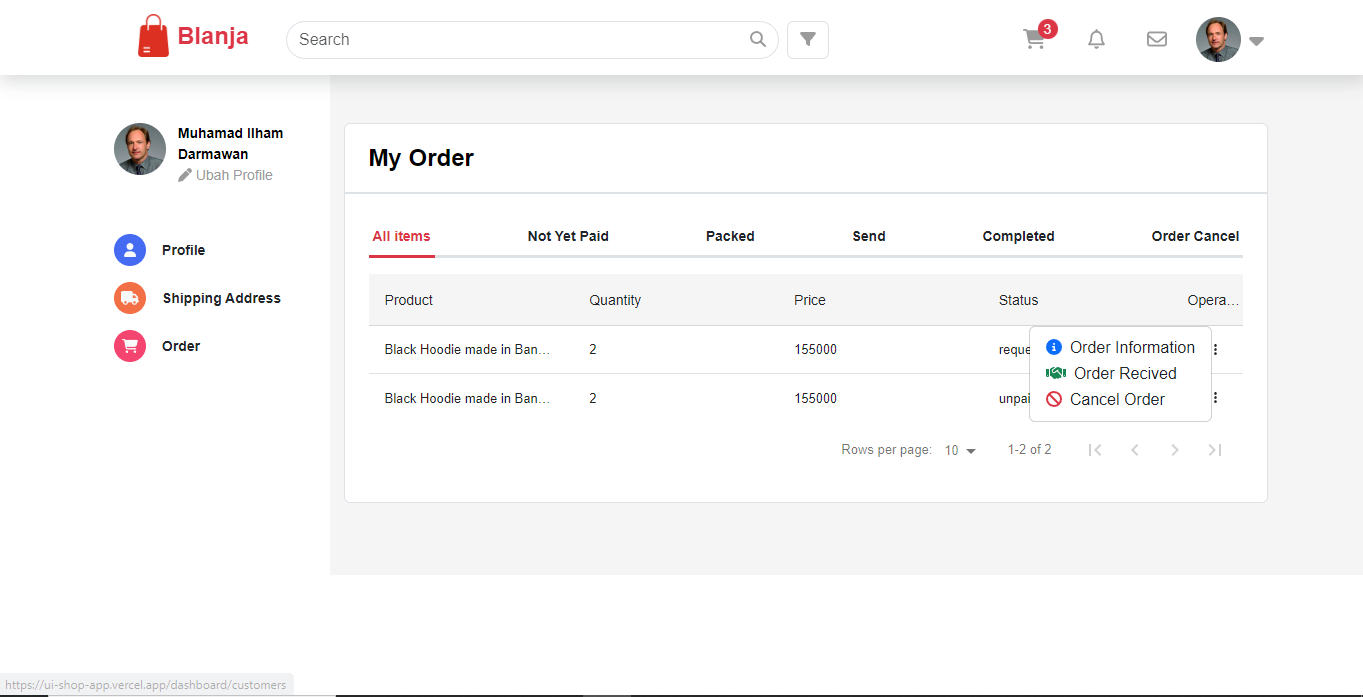
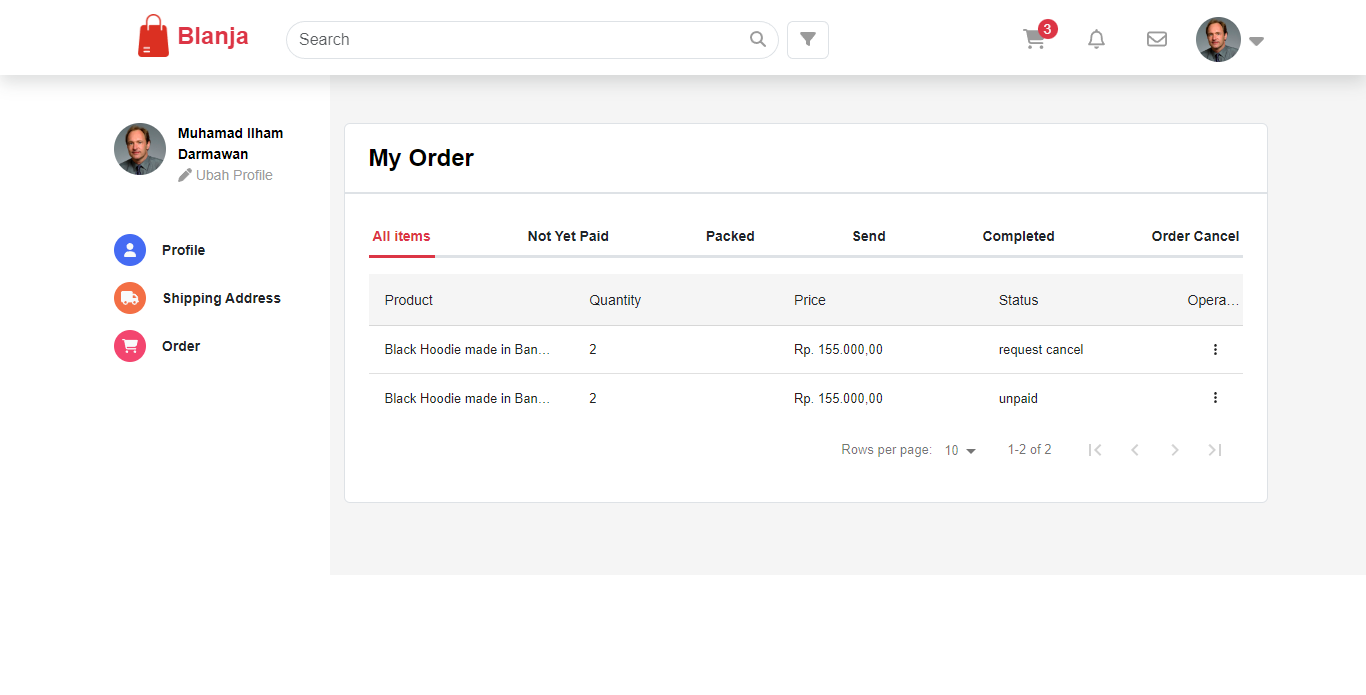
edit rupiah format

diff --git a/src/pages/Checkout/Checkout.jsx b/src/pages/Checkout/Checkout.jsx
@@ -10,6 +10,7 @@ import { useCreateOrderMutation } from '../../features/order/orderApi';
 import gopayPng from '../../assets/payment/gopay.png'
 import mCardPng from '../../assets/payment/mastercard.png'
 import posPng from '../../assets/payment/pos.png'
+import {convert} from 'rupiah-format'
 
 const CheckOut = () => {
   const { data: shippingAddress, isLoading: isLoadingShippingAddress, error: errorShippingAddress } = useGetShippingAddressByIdCustomerQuery();
@@ -81,7 +82,7 @@ const CheckOut = () => {
                       <span className="color-trinary">Order</span>
                     </div>
                     <div className="col-6">
-                      <span className="fw-bold d-block text-end">Rp. {carts?.totalPrice}</span>
+                      <span className="fw-bold d-block text-end">{convert(carts?.totalPrice)}</span>
                     </div>
                   </div>
                   <div className="row mb-3">
@@ -103,7 +104,7 @@ const CheckOut = () => {
                   <span className="fw-semibold">Shopping summary</span>
                 </div>
                 <div className="col-6">
-                  <span className="fw-bold d-block text-end text-danger">Rp. {carts?.totalPrice - 5000}</span>
+                  <span className="fw-bold d-block text-end text-danger">{convert(carts?.totalPrice - 5000)}</span>
                 </div>
               </div>
               {/* <!-- Shopping Summary --> */}
@@ -205,7 +206,7 @@ const CheckOut = () => {
                           <span className="color-trinary">Order</span>
                         </div>
                         <div className="col-4">
-                          <span className="fw-bold d-block text-end">Rp. 590000</span>
+                          <span className="fw-bold d-block text-end">Rp. 590.000,00</span>
                         </div>
                       </div>
                       <div className="row">
@@ -213,7 +214,7 @@ const CheckOut = () => {
                           <span className="color-trinary">Delivery</span>
                         </div>
                         <div className="col-4">
-                          <span className="fw-bold d-block text-end">Rp. 5000</span>
+                          <span className="fw-bold d-block text-end">Rp. 5.000,00</span>
                         </div>
                       </div>
                     </div>
@@ -226,7 +227,7 @@ const CheckOut = () => {
             <div className="row px-4 pb-3 shadow">
               <div className="col-6">
                 <span className="fw-semibold d-block">Shopping summary</span>
-                <span className="fw-semibold d-block text-danger">Rp. 585000</span>
+                <span className="fw-semibold d-block text-danger">Rp. 585.000,00</span>
               </div>
               <div className="col-6 d-flex align-items-center justify-content-end">
                 <button onClick={createOrderHandler} type="button" className="btn h-75 pt-0 btn-danger w-100 rounded-pill text-light">

diff --git a/src/pages/ProductDetail/ProductDetail.jsx b/src/pages/ProductDetail/ProductDetail.jsx
@@ -15,6 +15,7 @@ import photo5 from '../../assets/gallery/product5.png';
 import { useCreateCartMutation } from '../../features/cart/cartApi';
 import Swal from 'sweetalert2';
 import withReactContent from 'sweetalert2-react-content';
+import {convert} from 'rupiah-format'
 
 export const ProductDetail = () => {
   const MySwal = withReactContent(Swal);
@@ -114,23 +115,23 @@ export const ProductDetail = () => {
                   </div>
                   <div className="col-12 gallery mt-3 d-flex gap-2 justify-content-center">
                     <div className={`${style.galleryItems} rounded`}>
-                      <img className="img-fluid" crossOrigin="anonymous" src={photo1} alt="" />
+                      <img className="img-fluid rounded" src={product.photo} alt="" />
                     </div>
 
                     <div className={`${style.galleryItems} rounded`}>
-                      <img className="img-fluid" crossOrigin="anonymous" src={photo2} alt="" />
+                      <img className="img-fluid rounded" src={product.photo} alt="" />
                     </div>
 
                     <div className={`${style.galleryItems} rounded`}>
-                      <img className="img-fluid" crossOrigin="anonymous" src={photo3} alt="" />
+                      <img className="img-fluid rounded" src={product.photo} alt="" />
                     </div>
 
                     <div className={`${style.galleryItems} rounded`}>
-                      <img className="img-fluid" crossOrigin="anonymous" src={photo4} alt="" />
+                      <img className="img-fluid rounded" src={product.photo} alt="" />
                     </div>
 
                     <div className={`${style.galleryItems} rounded`}>
-                      <img className="img-fluid" crossOrigin="anonymous" src={photo5} alt="" />
+                      <img className="img-fluid rounded" src={product.photo} alt="" />
                     </div>
                   </div>
                 </div>
@@ -152,7 +153,7 @@ export const ProductDetail = () => {
                   {/* <!-- Price --> */}
                   <div className="product-price mt-4">
                     <span className="descriptive-text color-trinary d-block">Price</span>
-                    <span className={`fs-3 fw-bold ${style.price}`}>Rp. {product.price}</span>
+                    <span className={`fs-3 fw-bold ${style.price}`}>{convert(product.price)}</span>
                   </div>
                   {/* <!-- End Price --> */}
 

diff --git a/src/components/CardProduct/CardProduct.jsx b/src/components/CardProduct/CardProduct.jsx
@@ -2,6 +2,7 @@ import { faStar } from '@fortawesome/free-solid-svg-icons';
 import { FontAwesomeIcon } from '@fortawesome/react-fontawesome';
 import style from './style.module.css';
 import React from 'react';
+import { convert } from 'rupiah-format'
 
 export const CardProduct = ({ data }) => {
   const { id, photo, product_name, price, store_name } = data;
@@ -10,7 +11,7 @@ export const CardProduct = ({ data }) => {
       <img src={photo} className={`${style.imgHeight} ${style.maxHeight}  card-img-top img-fluid`} alt={product_name} />
       <div className="card-body py-2 px-3 card-title-product d-flex flex-column">
         <div className="product-title fw-semibold text-dark">{product_name}</div>
-        <span className="text-danger fw-semibold">Rp. {price}</span>
+        <span className="text-danger fw-semibold">{convert(price)}</span>
         <span className="color-trinary small-text">{store_name}</span>
         <span className="d-flex mt-1 gap-1 align-items-center">
           <FontAwesomeIcon icon={faStar} className={'text-warning more-small-text'} />

diff --git a/src/components/CardListCart/CardListCart.jsx b/src/components/CardListCart/CardListCart.jsx
@@ -4,6 +4,7 @@ import React, { useState } from 'react';
 import { useDeleteCartByIdMutation, useUpdateCartMutation } from '../../features/cart/cartApi';
 import style from './style.module.css';
 import Swal from 'sweetalert2';
+import { convert } from 'rupiah-format'
 
 const CardListCart = ({ data, checked }) => {
   const [updateCart, { isLoading, error }] = useUpdateCartMutation();
@@ -73,7 +74,7 @@ const CardListCart = ({ data, checked }) => {
               <FontAwesomeIcon onClick={() => incrementQuantity(data)} className={`border border-1 border-trinary rounded-circle ${style.faIcon}`} icon={faPlus} />
             </div>
             <div className="col-6 price justify-content-end d-flex align-items-center">
-              <span className="fw-semibold">Rp. {data.quantity * data.price}</span>
+              <span className="fw-semibold">{convert(data.quantity * data.price)}</span>
             </div>
           </div>
         </div>

diff --git a/src/pages/MyBag/MyBag.jsx b/src/pages/MyBag/MyBag.jsx
@@ -4,6 +4,7 @@ import style from './style.module.css';
 import CardListCart from './../../components/CardListCart/CardListCart';
 import { useDeleteCartByIdCustomerMutation, useGetCartByIdCustomerQuery } from '../../features/cart/cartApi';
 import { Link } from 'react-router-dom';
+import { convert } from 'rupiah-format'
 
 const MyBag = () => {
   const { data: carts, isLoading, error, isError } = useGetCartByIdCustomerQuery();
@@ -72,7 +73,7 @@ const MyBag = () => {
                     <span className="color-trinary">Total price</span>
                   </div>
                   <div className="col-6">
-                    <span className="fw-bold d-block text-end">Rp. {carts?.totalPrice}</span>
+                    <span className="fw-bold d-block text-end">{convert(carts?.totalPrice)}</span>
                   </div>
                 </div>
               </div>

diff --git a/src/pages/dashboard/seller/order/OrderCancel/OrderCancel.jsx b/src/pages/dashboard/seller/order/OrderCancel/OrderCancel.jsx
@@ -7,6 +7,7 @@ import { useEffect } from 'react';
 import { useGetOrderByIdSellerQuery } from '../../../../../features/order/orderApi';
 import { Dashboard } from '../../../../../components/Layout/Dashboard';
 import { DashboardCardContent } from '../../../../../components/Dashboard/DashboardCardContent';
+import { convert } from 'rupiah-format'
 
 const SellerOrderCancel = () => {
   const { data: orders, isLoading, error } = useGetOrderByIdSellerQuery({ status: 'cancel' });
@@ -57,7 +58,7 @@ const SellerOrderCancel = () => {
     },
     {
       name: 'Price',
-      selector: (row) => row.price,
+      selector: (row) => convert(row.price),
       sortable: true,
     },
     {

diff --git a/src/pages/dashboard/seller/product/MyProduct.jsx b/src/pages/dashboard/seller/product/MyProduct.jsx
@@ -6,6 +6,7 @@ import { FontAwesomeIcon } from '@fortawesome/react-fontawesome';
 import { faPenSquare, faTrash } from '@fortawesome/free-solid-svg-icons';
 import { useDeleteProductMutation, useGetProductByIdSellerQuery } from '../../../../features/product/productApi';
 import DataTable from 'react-data-table-component';
+import { convert } from 'rupiah-format'
 
 export const MyProduct = () => {
   const { data: products, isLoading, error } = useGetProductByIdSellerQuery();
@@ -53,7 +54,7 @@ export const MyProduct = () => {
     },
     {
       name: 'Price',
-      selector: (row) => row.price,
+      selector: (row) => convert(row.price),
       sortable: true,
     },
     {

diff --git a/src/components/CardCheckout/CardCheckout.jsx b/src/components/CardCheckout/CardCheckout.jsx
@@ -1,5 +1,6 @@
 import React from 'react';
 import style from './style.module.css';
+import { convert } from 'rupiah-format';
 
 const CardCheckout = ({ data }) => {
   const { product_name, store_name, price, photo_product, quantity, color, size } = data;
@@ -26,7 +27,7 @@ const CardCheckout = ({ data }) => {
         </div>
 
         <div className="col-12 col-sm-5 justify-content-end d-flex align-items-center pe-5">
-          <span className="fw-semibold fs-6 text-danger">Rp. {price * quantity}</span>
+          <span className="fw-semibold fs-6 text-danger">{convert(price * quantity)}</span>
         </div>
       </div>
     </div>

diff --git a/src/pages/dashboard/customer/order/CustomerOrder.jsx b/src/pages/dashboard/customer/order/CustomerOrder.jsx
@@ -8,6 +8,7 @@ import { faBan, faEllipsisVertical, faBox, faCircleInfo, faTruck, faHandshake } 
 import DataTable from 'react-data-table-component';
 import { useEffect } from 'react';
 import Swal from 'sweetalert2';
+import { convert } from 'rupiah-format'
 
 const CustomerOrder = () => {
   const [status, setStatus] = useState('');
@@ -76,7 +77,7 @@ const CustomerOrder = () => {
     },
     {
       name: 'Price',
-      selector: (row) => row.price,
+      selector: (row) => convert(row.price),
       sortable: true,
     },
     {

diff --git a/README.md b/README.md
@@ -164,11 +164,9 @@ REACT_APP_ENDPOINT = [BACKEND_URL]
   </tr>
   <tr>
     <td><img width="350px" src="./documentation/seller-create-product.png"  border="0" border="0" alt="3" /> </td>
-    <td><img width="350px" src="./documentation/home-mobile.png"  border="0" border="0" alt="3" /> </td>
   </tr>
   <tr>
     <td>Seller Add Product</td>
-    <td>Home Mobile Version</td>
   </tr>
 </table>
 <!-- CONTRIBUTING -->
